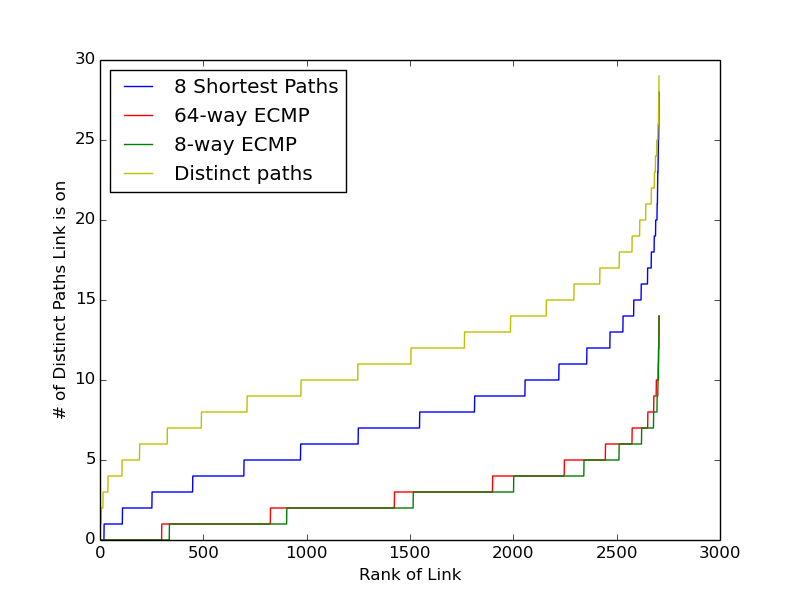
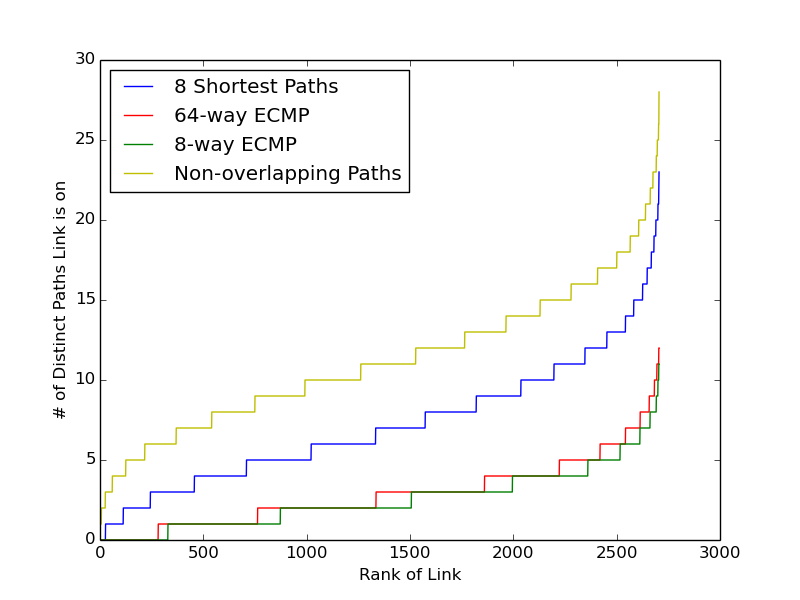
update png

diff --git a/build_topology.py b/build_topology.py
@@ -24,7 +24,7 @@ def get_weight(networkx_graph, path):
     return cnt
 
 
-def compute_distinct_paths(networkx_graph, n):
+def compute_non_overlapping_paths(networkx_graph, n):
     paths = {}
     for a in range(n):
         paths[(str(a), str(a))] = [[str(a)]]
@@ -149,7 +149,7 @@ def assemble_histogram(path_counts, file_name):
     ax1.plot(x, ksp_distinct_paths_counts, color='b', label="8 Shortest Paths")
     ax1.plot(x, ecmp_64_distinct_paths_counts, color='r', label="64-way ECMP")
     ax1.plot(x, ecmp_8_distinct_paths_counts, color='g', label="8-way ECMP")
-    ax1.plot(x, distinct_paths_counts, color='y', label="Distinct paths")
+    ax1.plot(x, distinct_paths_counts, color='y', label="Non-overlapping Paths")
     plt.legend(loc="upper left");
     ax1.set_xlabel("Rank of Link")
     ax1.set_ylabel("# of Distinct Paths Link is on")
@@ -186,7 +186,7 @@ def main():
     n = 246
     numHosts = 3 * n
     d = 11
-    reuse_old_result = False
+    reuse_old_result = True
     ecmp_paths = {}
     all_ksp = {}
     file_name = "rrg_%s_%s" % (d, n)
@@ -201,19 +201,20 @@ def main():
         print "Computing K shortest paths"
         all_ksp = compute_k_shortest_paths(graph, n)
         save_obj(all_ksp, "ksp_%s" % (file_name))
-        distinct = compute_distinct_paths(graph, n)
-        save_obj(distinct, "unique_%s" % (file_name))
+        print "Computing non-overlapping paths"
+        non_overlapping = compute_non_overlapping_paths(graph, n)
+        save_obj(non_overlapping, "unique_%s" % (file_name))
     else:
         graph = networkx.read_adjlist(file_name)
 
         ecmp_paths = load_obj("ecmp_%s" % (file_name))
         all_ksp = load_obj("ksp_%s" % (file_name))
-        unique_ksp = load_obj("unique_%s" % (file_name))
+        non_overlapping = load_obj("unique_%s" % (file_name))
     print "Assembling counts from paths"
 
     derangement = random_derangement(numHosts)
     all_links = graph.edges()
-    path_counts = get_path_counts(distinct,ecmp_paths, all_ksp, derangement, all_links)
+    path_counts = get_path_counts(non_overlapping,ecmp_paths, all_ksp, derangement, all_links)
     print "Making the plot"
     assemble_histogram(path_counts=path_counts, file_name=file_name)
 
@@ -224,7 +225,7 @@ def main():
     print "Transforming ECMP 8"
     transformed_ecmp_routes = transform_paths_dpid("ecmp_%s" % (file_name), n, 8)
     save_routing_table(transformed_ecmp_routes, "ecmp_8_%s" % (file_name))
-    print "Transforming unique"
+    print "Transforming non-overlapping"
     transformed_ecmp_routes = transform_paths_dpid("unique_%s" % (file_name), n, 8)
     save_routing_table(transformed_ecmp_routes, "unique_%s" % (file_name))
 
